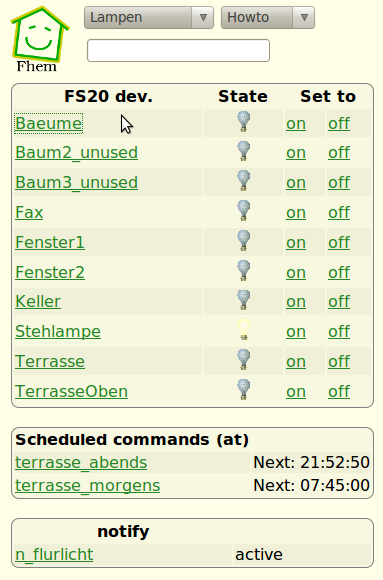
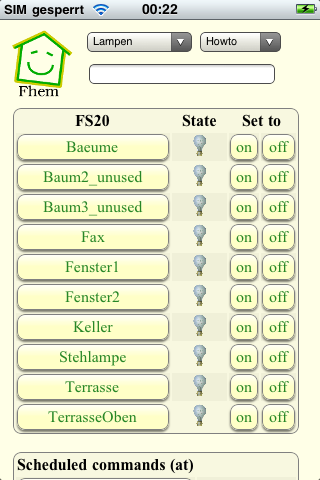
New Small-Screen style

diff --git a/fhem/webfrontend/pgm2/style_smallscreen.css b/fhem/webfrontend/pgm2/style_smallscreen.css
@@ -6,6 +6,14 @@ body     { background-color: #FFFFE7;}
 
 a {  color: #278727; }
 
+div.href { /* Push buttons */
+  padding:0; border:1px solid gray; height:1.5em;
+  -moz-border-radius:0.5em; -webkit-border-radius:0.5em;
+  display: -webkit-box; -webkit-box-orient: horizontal; -webkit-box-pack: center; -webkit-box-align: center;
+  background-image:-webkit-gradient(linear, right top, right bottom, color-stop(0%,#fffff7), color-stop(49%,#ffffc7));
+  -webkit-box-shadow: 0 0.15em 0.15em rgba(0,0,0, .5);
+}
+
 table.block { border:1px solid gray; width: 100%; background: #F8F8E0; }
 table.block tr.odd { background: #F0F0D8; }
 table.block tr.sel { background: #F0F0D8; }
